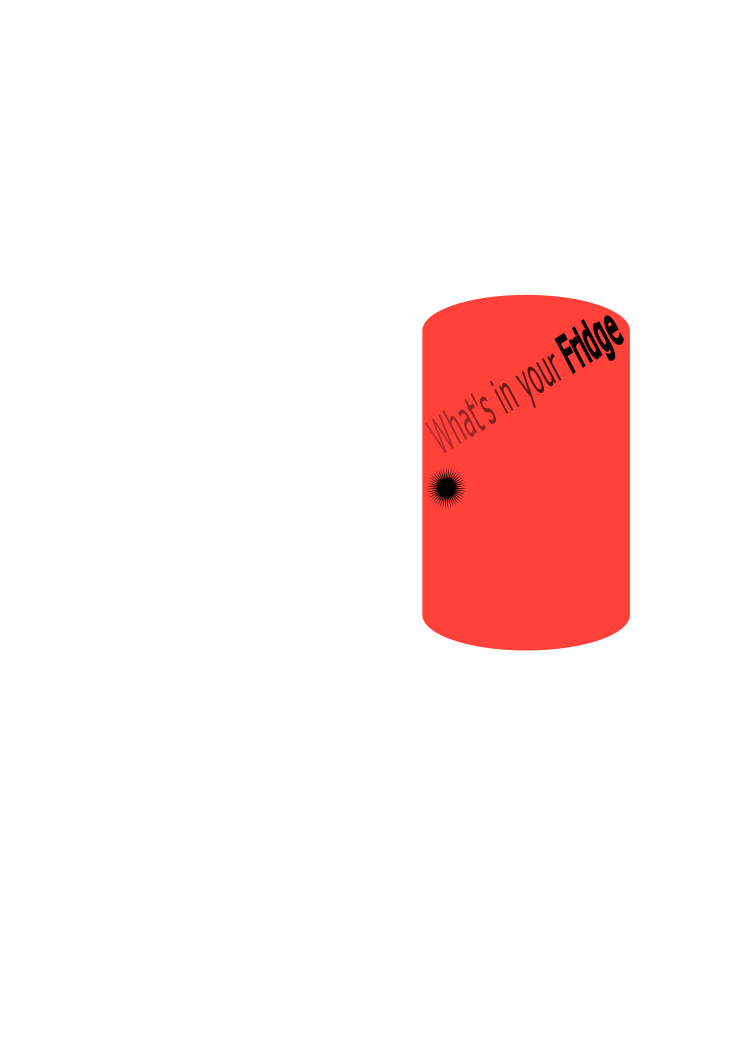
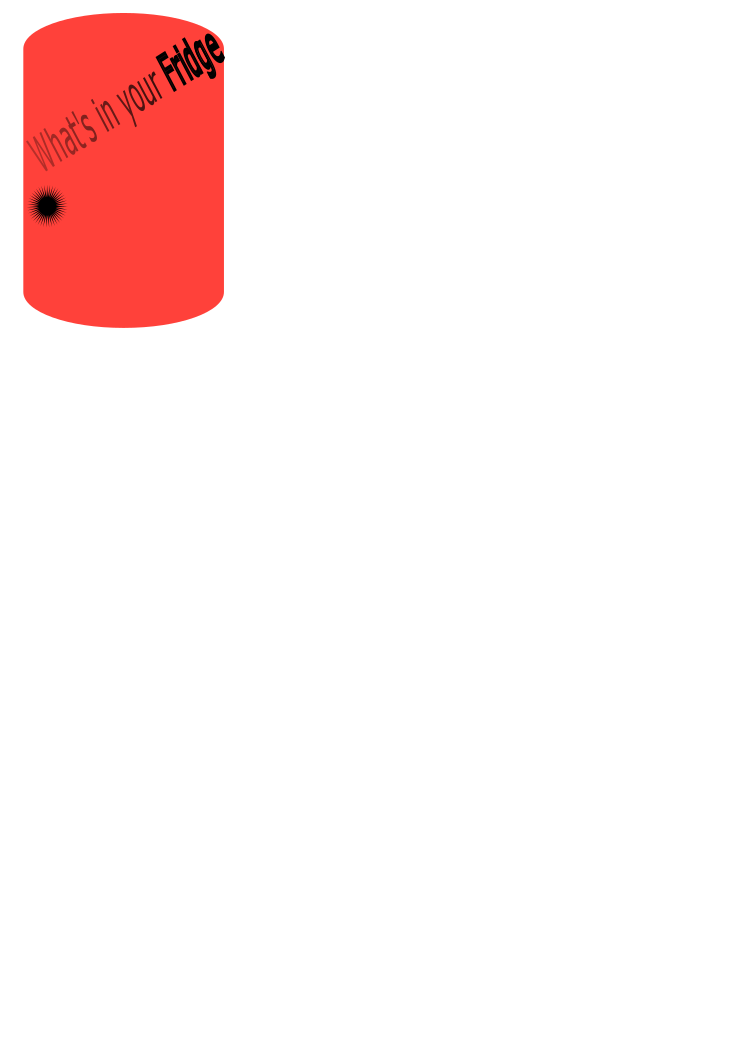
moved img

Changed region(s): [[0.5557, 0.2735, 0.8644, 0.6382], [0.0309, 0.0, 0.3087, 0.3343]]

diff --git a/css/main.css b/css/main.css
@@ -4,7 +4,7 @@ body {
 h1 {
 	color: #9C250B;
 	font-style: Arial, sans-serif;
-	font-size: 30px;
+	font-size: 50px;
 	text-transform: uppercase;
 	font-weight: 500;
 	text-align: center;
@@ -18,5 +18,7 @@ font-style: italic;
 h3 {
 text-align: center;
 color: blue;
-
+}
+img {
+	text-align: left;
 }
